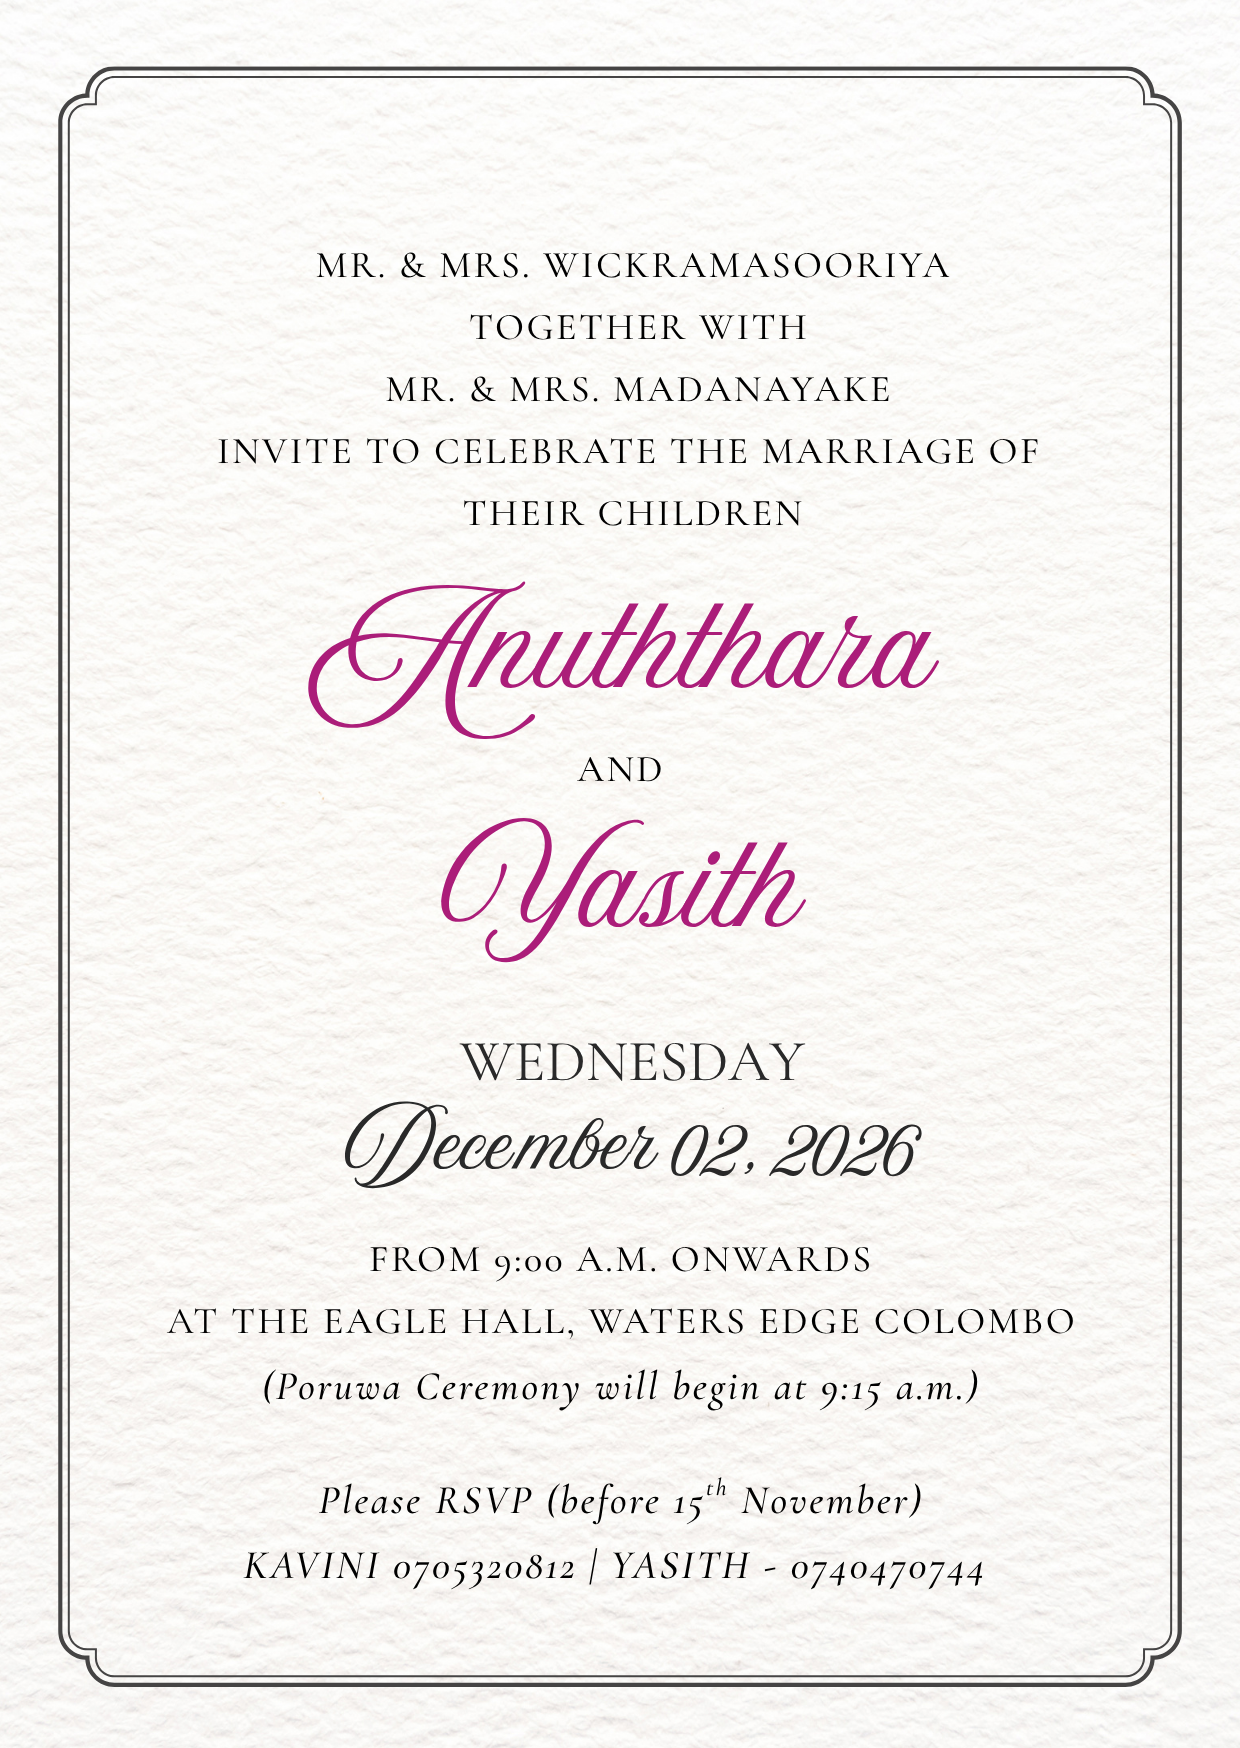
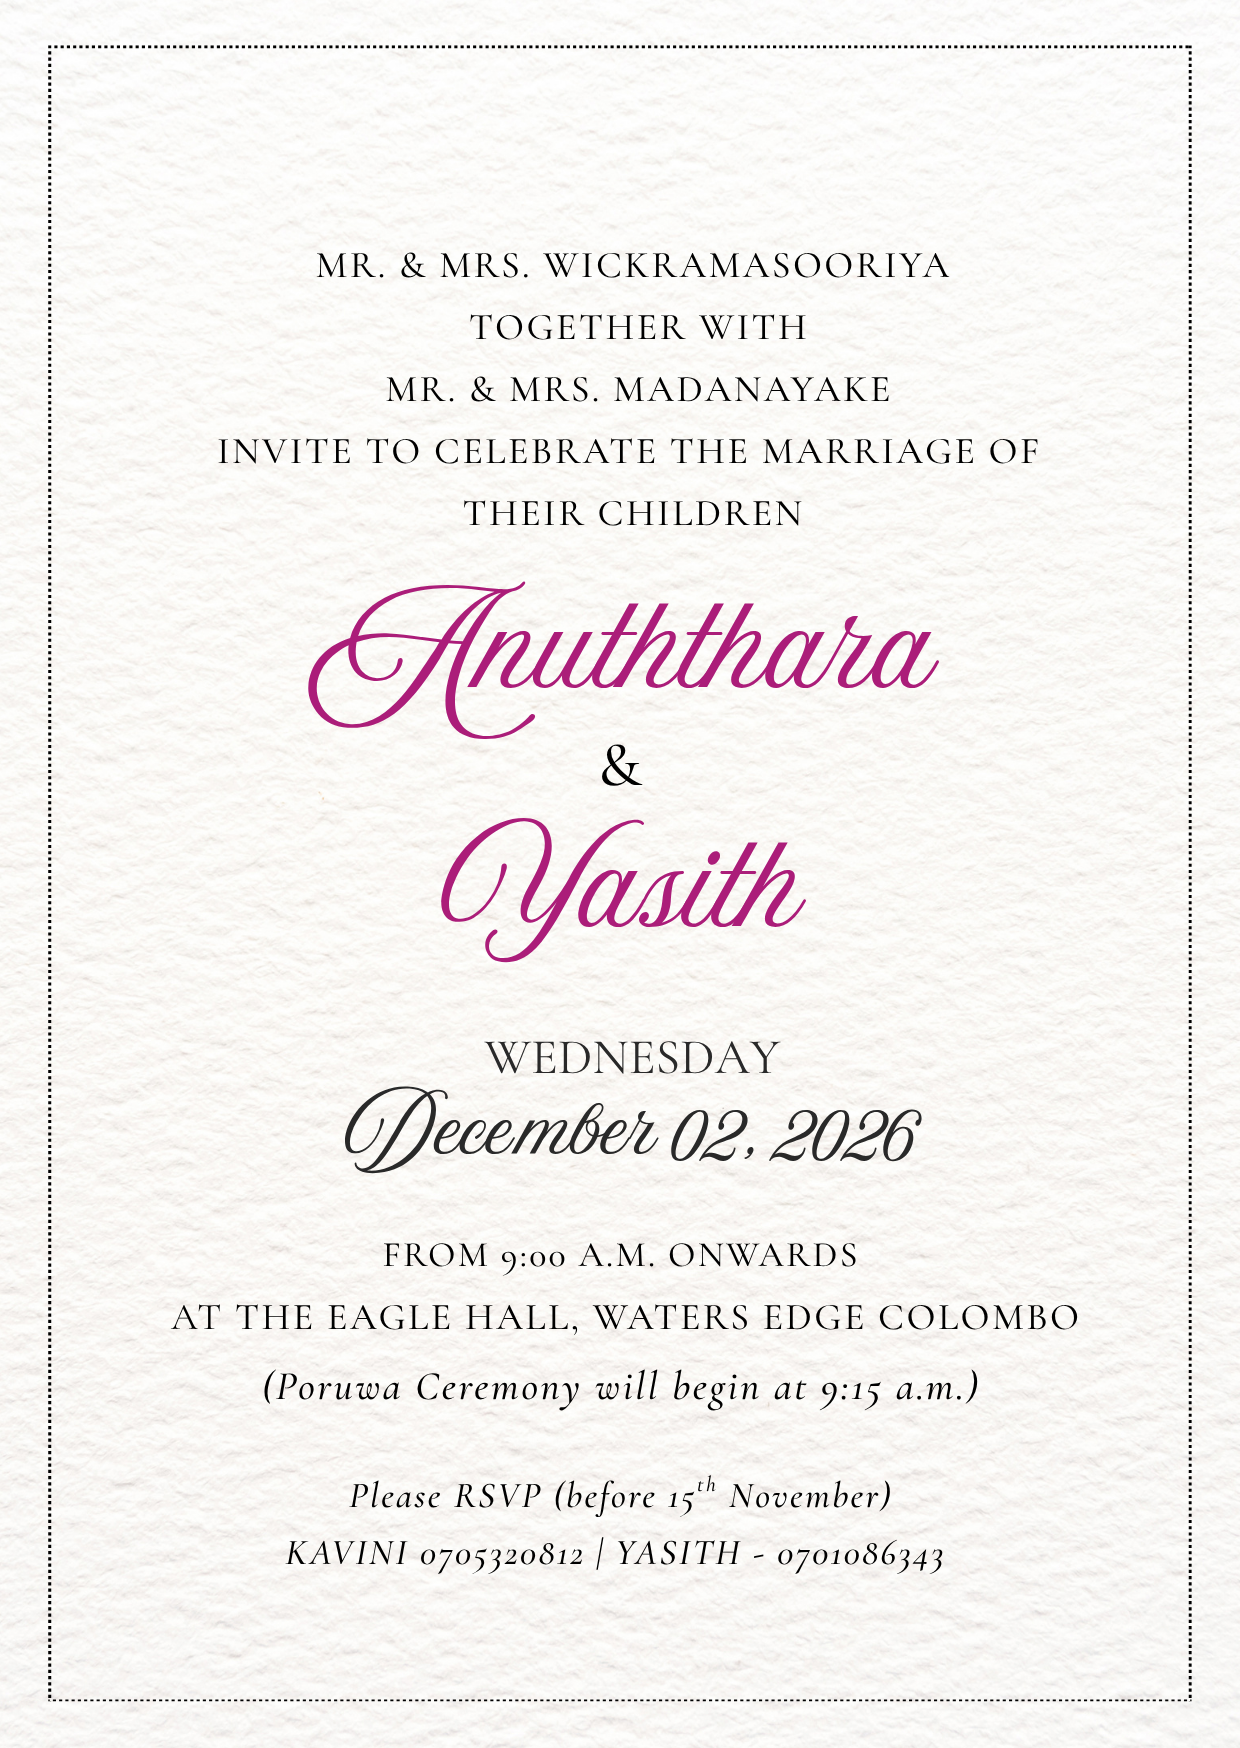
Add new wedding images and update styles for Envelope and Hero components; enhance layout and text presentation

diff --git a/src/components/Hero.jsx b/src/components/Hero.jsx
@@ -9,37 +9,58 @@ export default function Hero() {
       viewport={{ once: false, amount: 0.2 }}
       transition={{ duration: 0.8, ease: [0.16, 1, 0.3, 1] }}
       className="
-        pt-24 
-        pb-16
-        px-8 
+        py-16
+        px-6 
         md:px-12 
         text-center 
-        bg-gradient-to-b 
-        from-lavender-100 
-        via-lavender-400/60 
-        to-white
         relative 
         overflow-hidden
+        w-full
+        min-h-[85vh]
+        flex
+        items-end
+        justify-center
+        pb-16
       "
     >
+      {/* Background Image Container with full native resolution & clarity */}
+      <div className="absolute inset-0 z-0 overflow-hidden">
+        <img 
+          src="/photos/DSC06478.jpg" 
+          alt="Anu & Yasith Background" 
+          className="
+            w-full 
+            h-full 
+            object-cover 
+            object-center
+            [image-rendering:-webkit-optimize-contrast]
+            transform-gpu
+          "
+        />
+        {/* Gentle dark gradient overlay for text readability without reducing image sharpness */}
+        <div className="absolute inset-0 bg-gradient-to-t from-black/40 via-black/10 to-transparent" />
+      </div>
 
-      {/* Decorative ambient background glow */}
-      <div className="
-        absolute 
-        top-1/2 
-        left-1/2 
-        -translate-x-1/2 
-        -translate-y-1/2 
-        w-[80%] 
-        h-[80%] 
-        bg-lavender-200/30 
-        rounded-full 
-        blur-[120px] 
-        pointer-events-none 
-        -z-0
-      " />
-
-      <div className="max-w-3xl mx-auto relative z-10">
+      {/* Glassmorphic Content Card positioned lower */}
+      <motion.div 
+        initial={{ opacity: 0, scale: 0.95 }}
+        whileInView={{ opacity: 1, scale: 1 }}
+        viewport={{ once: false }}
+        transition={{ duration: 0.6, type: "spring", stiffness: 250, damping: 20 }}
+        className="
+          max-w-xl 
+          mx-auto 
+          relative 
+          z-10
+          bg-white/90
+          backdrop-blur-xl
+          p-8
+          md:p-12
+          rounded-[2.5rem]
+          border border-white/90
+          shadow-[0_25px_60px_rgba(0,0,0,0.35)]
+        "
+      >
 
         <motion.h2 
           initial={{ opacity: 0, y: -15 }}
@@ -48,20 +69,26 @@ export default function Hero() {
           transition={{ duration: 0.6, delay: 0.2 }}
           className="
             font-serif 
-            text-4xl 
-            text-lavender-700 
-            tracking-[0.2em] 
+            text-2xl 
+            md:text-3xl 
+            text-lavender-900 
+            tracking-[0.25em] 
             uppercase 
             mb-6 
             flex 
+            flex-col
             items-center 
             justify-center 
-            gap-4
+            gap-2
+            font-light
           "
         >
-          <span className="h-[1px] w-12 bg-lavender-300"></span>
-          Our Story
-          <span className="h-[1px] w-12 bg-lavender-300"></span>
+          <div className="flex items-center gap-3">
+            <span className="h-[1px] w-8 bg-[#d4af37]"></span>
+            <span>OUR</span>
+            <span className="h-[1px] w-8 bg-[#d4af37]"></span>
+          </div>
+          <span className="font-normal text-lavender-900">STORY</span>
         </motion.h2>
 
 
@@ -72,65 +99,18 @@ export default function Hero() {
           transition={{ duration: 0.6, delay: 0.3 }}
           className="
             font-serif 
-            text-xl 
-            text-gray-600 
+            text-base 
+            md:text-lg 
+            text-gray-800 
             leading-relaxed 
             italic 
-            mb-10 
-            px-4
+            px-2
           "
         >
-          "Every love story is beautiful, but ours is our absolute favourite. Here are a few of the precious moments that brought us to this day."
+          "Our hearts chose one another when our paths first crossed, and every step since has led us happily to this forever."
         </motion.p>
 
-
-        <motion.div 
-          initial={{ opacity: 0, scale: 0.95 }}
-          whileInView={{ opacity: 1, scale: 1 }}
-          viewport={{ once: false }}
-          whileHover={{ scale: 1.02, y: -4 }}
-          transition={{ duration: 0.5, type: "spring", stiffness: 300, damping: 20 }}
-          className="
-            w-full 
-            aspect-video 
-            rounded-[2rem] 
-            overflow-hidden 
-            shadow-[0_20px_50px_rgba(145,109,177,0.2)] 
-            border-8 
-            border-white 
-            mb-6 
-            relative 
-            group
-            cursor-pointer
-          "
-        >
-
-          <img 
-            src="/photos/image.jpeg" 
-            alt="Anu & Yasith Story" 
-            className="
-              w-full 
-              h-full 
-              object-cover 
-              transition-transform 
-              duration-1000 
-              group-hover:scale-105
-            "
-            style={{ objectPosition: 'center 75%' }}
-          />
-
-          <div className="
-            absolute 
-            inset-0 
-            bg-lavender-900/10 
-            group-hover:bg-transparent 
-            transition-colors 
-            duration-500
-          " />
-
-        </motion.div>
-
-      </div>
+      </motion.div>
 
     </motion.div>
   );

diff --git a/src/components/Envelope.jsx b/src/components/Envelope.jsx
@@ -72,7 +72,7 @@ export default function Envelope({ onOpen }) {
           initial={{ scale: 0, rotate: -15 }}
           animate={{ scale: 1, rotate: 0 }}
           transition={{ type: "spring", stiffness: 200, damping: 10, delay: 0.2 }}
-          className="mb-6 text-[#d1ab3c] drop-shadow-[0_0_15px_rgba(209,171,60,0.4)]"
+          className="mb-6 text-[#a07e0e] drop-shadow-[0_0_15px_rgba(209,171,60,0.4)]"
         >
           <svg xmlns="http://www.w3.org/2000/svg" viewBox="0 0 24 24" fill="currentColor" className="w-9 h-9">
             <path d="M11.645 20.91l-.007-.003-.022-.012a15.247 15.247 0 01-.383-.218 25.18 25.18 0 01-4.244-3.17C4.688 15.36 2.25 12.174 2.25 8.25 2.25 5.322 4.714 3 7.688 3A5.5 5.5 0 0112 5.052 5.5 5.5 0 0116.313 3c2.973 0 5.437 2.322 5.437 5.25 0 3.925-2.438 7.111-4.739 9.256a25.175 25.175 0 01-4.244 3.17 15.247 15.247 0 01-.383.219l-.022.012-.007.004-.003.001a.752.752 0 01-.704 0l-.003-.001z" />
